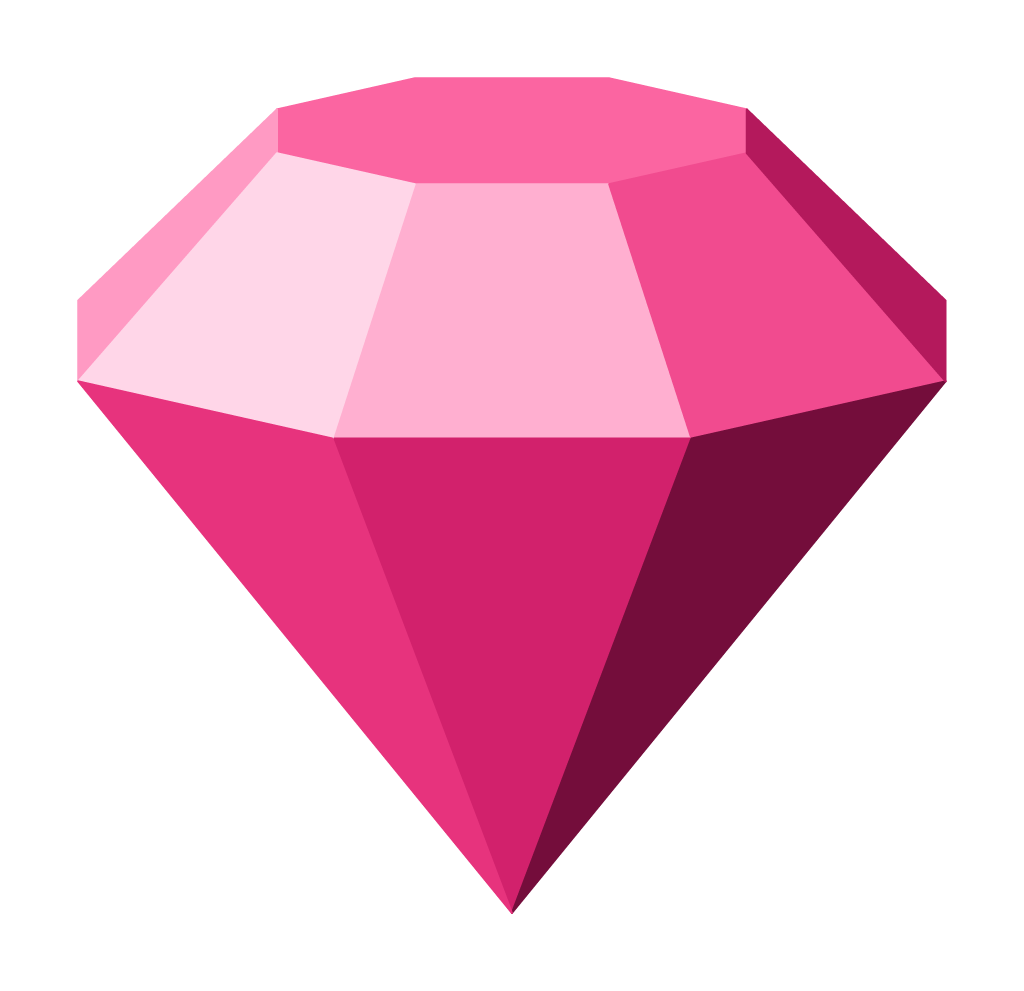
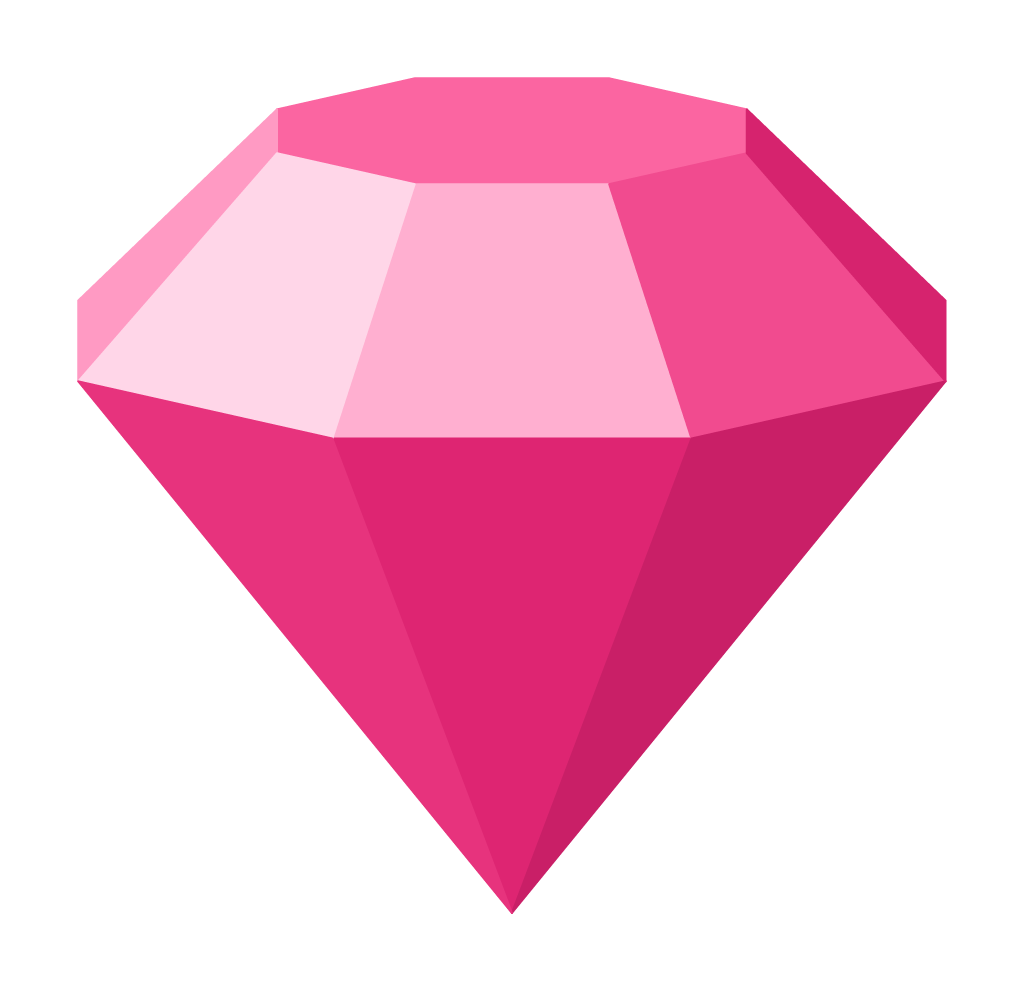
Default fillLight to 0.75
The default mark is now what the playground showed with ?fillLight=0.75:
the side away from the key light no longer sinks to the shadow tone.
Regenerated diamond.svg, the PNGs and animations/*.svg.

Claude-Session: https://claude.ai/code/session_012cMPy9HCbyE1ZCZ2bmsnZ3

Changed region(s): [[0.5, 0.3935, 0.9062, 0.9082], [0.7188, 0.1211, 0.9375, 0.3935]]

diff --git a/default.ts b/default.ts
@@ -43,7 +43,7 @@ export const DEFAULTS: Required<Omit<DiamondParams, "onWarn">> = {
   reflections: 1,
   gradient: "flat",
   shading: 1,
-  fillLight: 0,
+  fillLight: 0.75,
   lightAngle: -40,
   lightElevation: 35,
   colorFlow: false,
